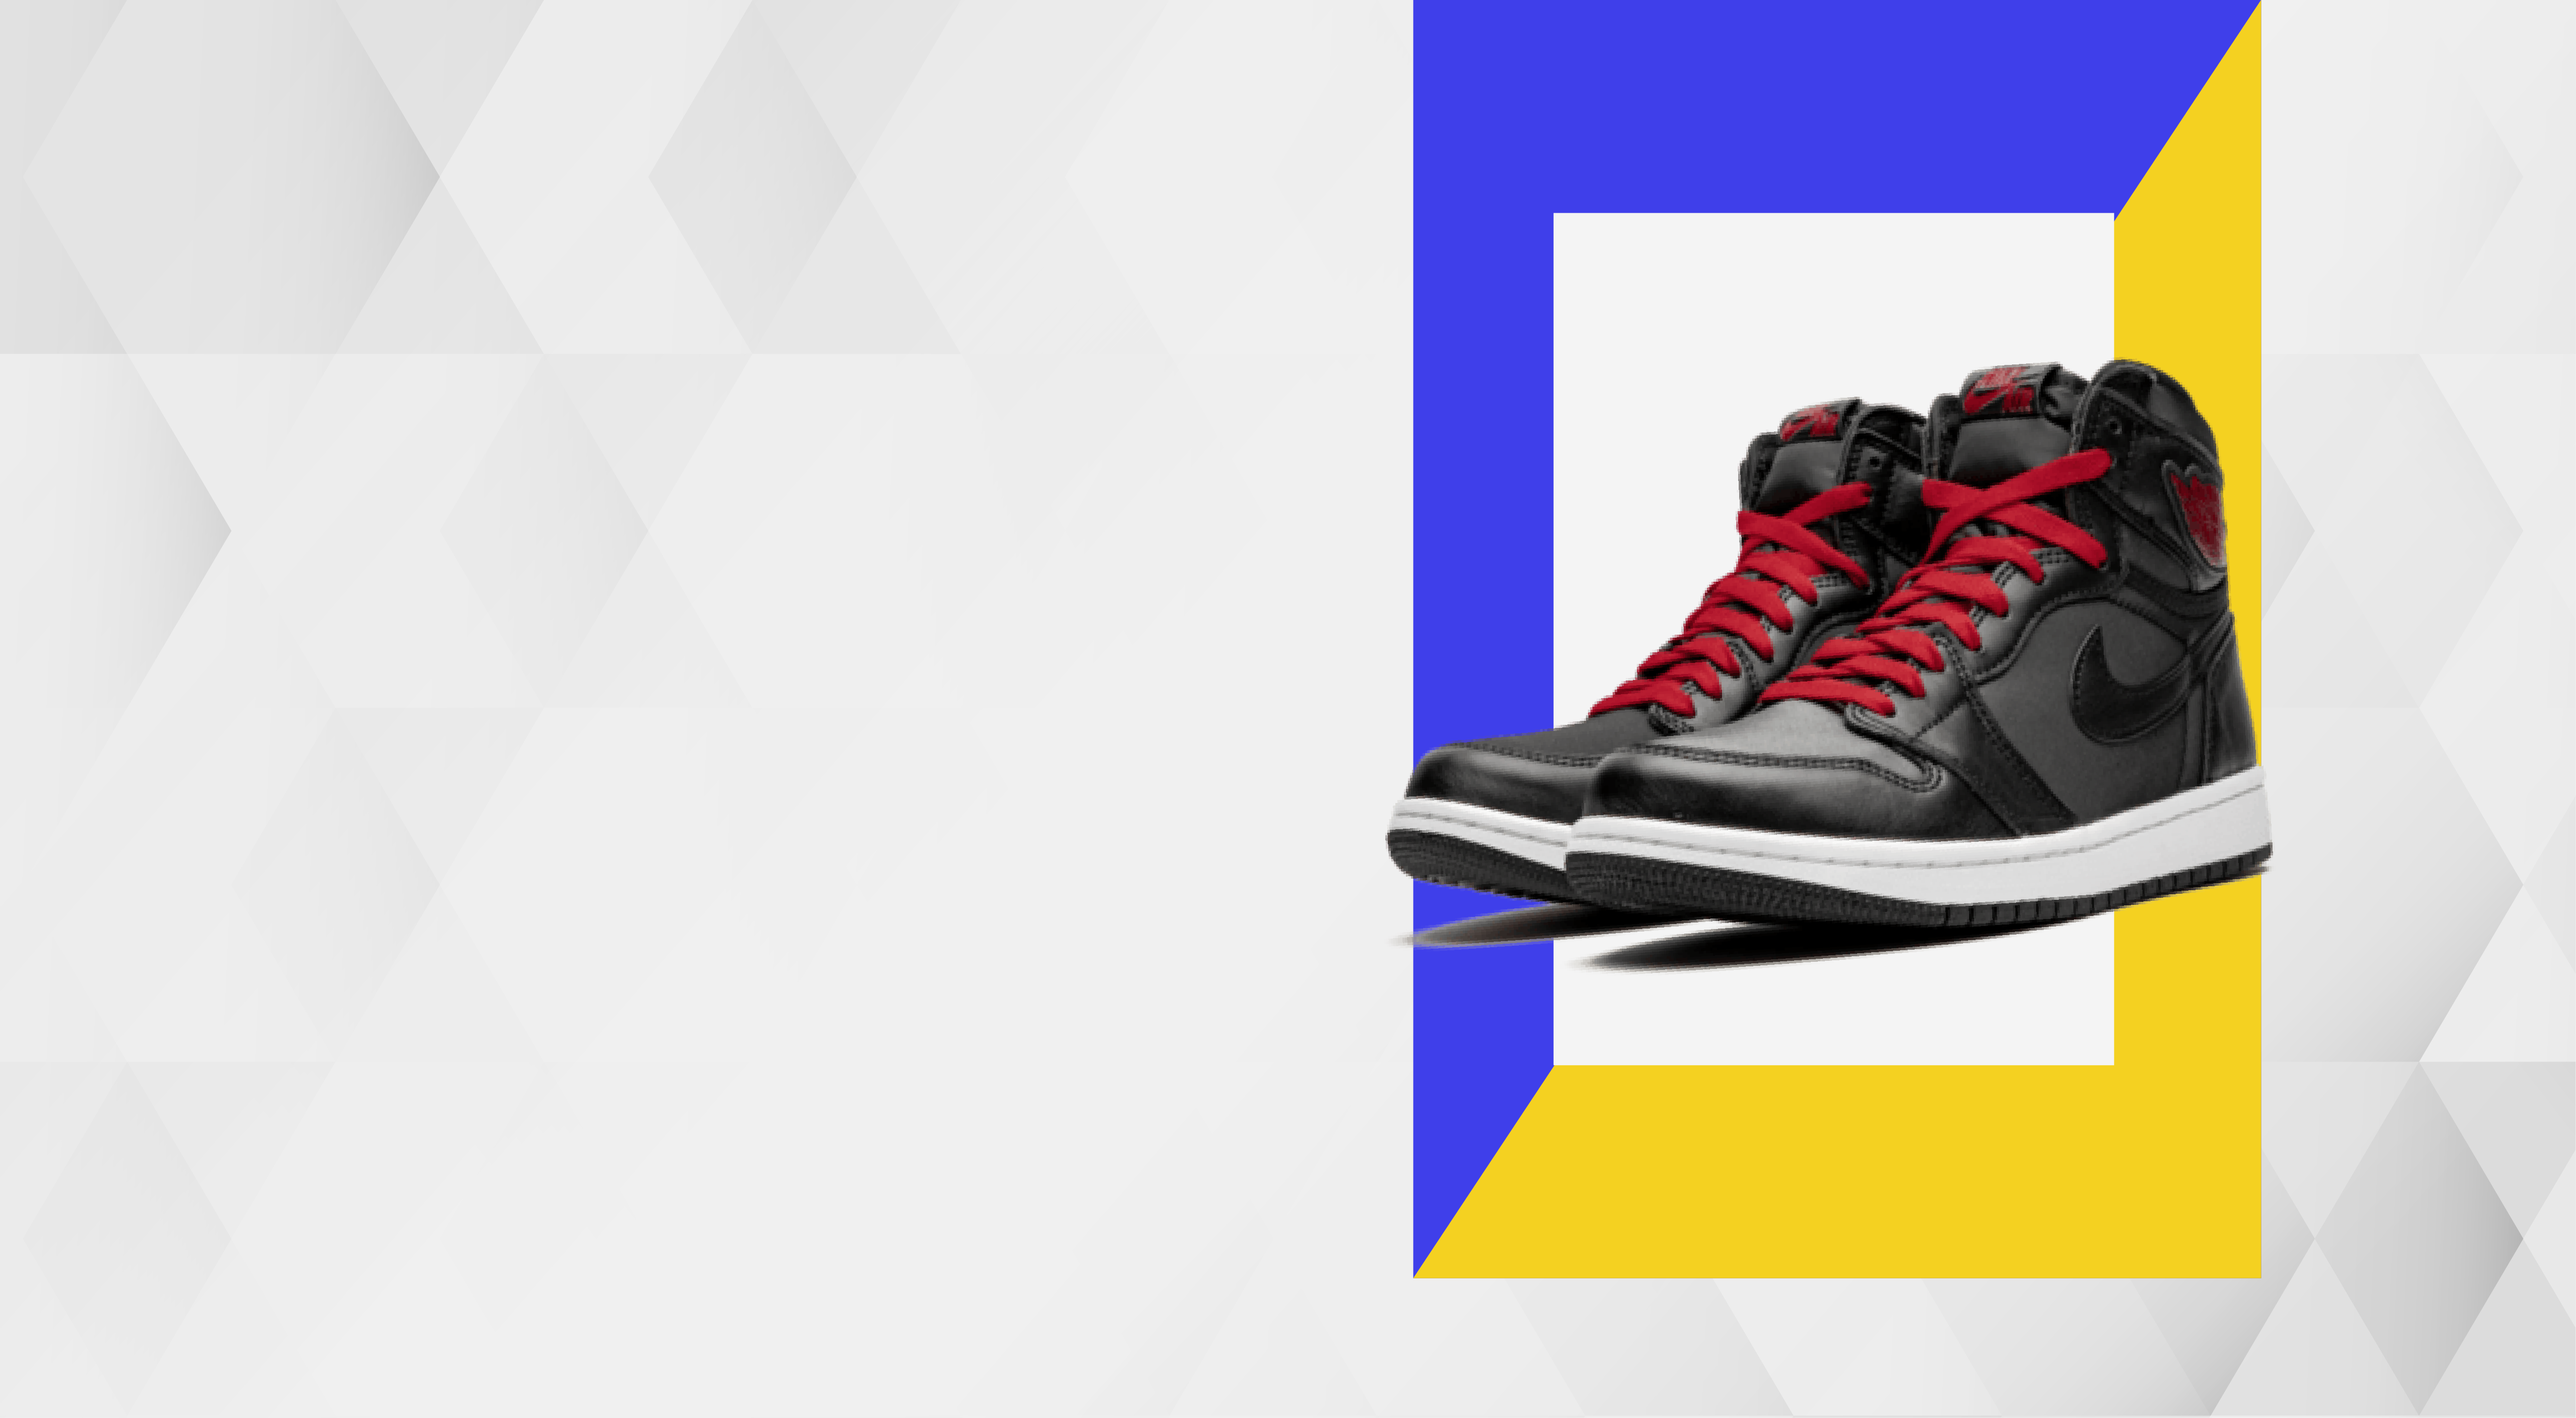
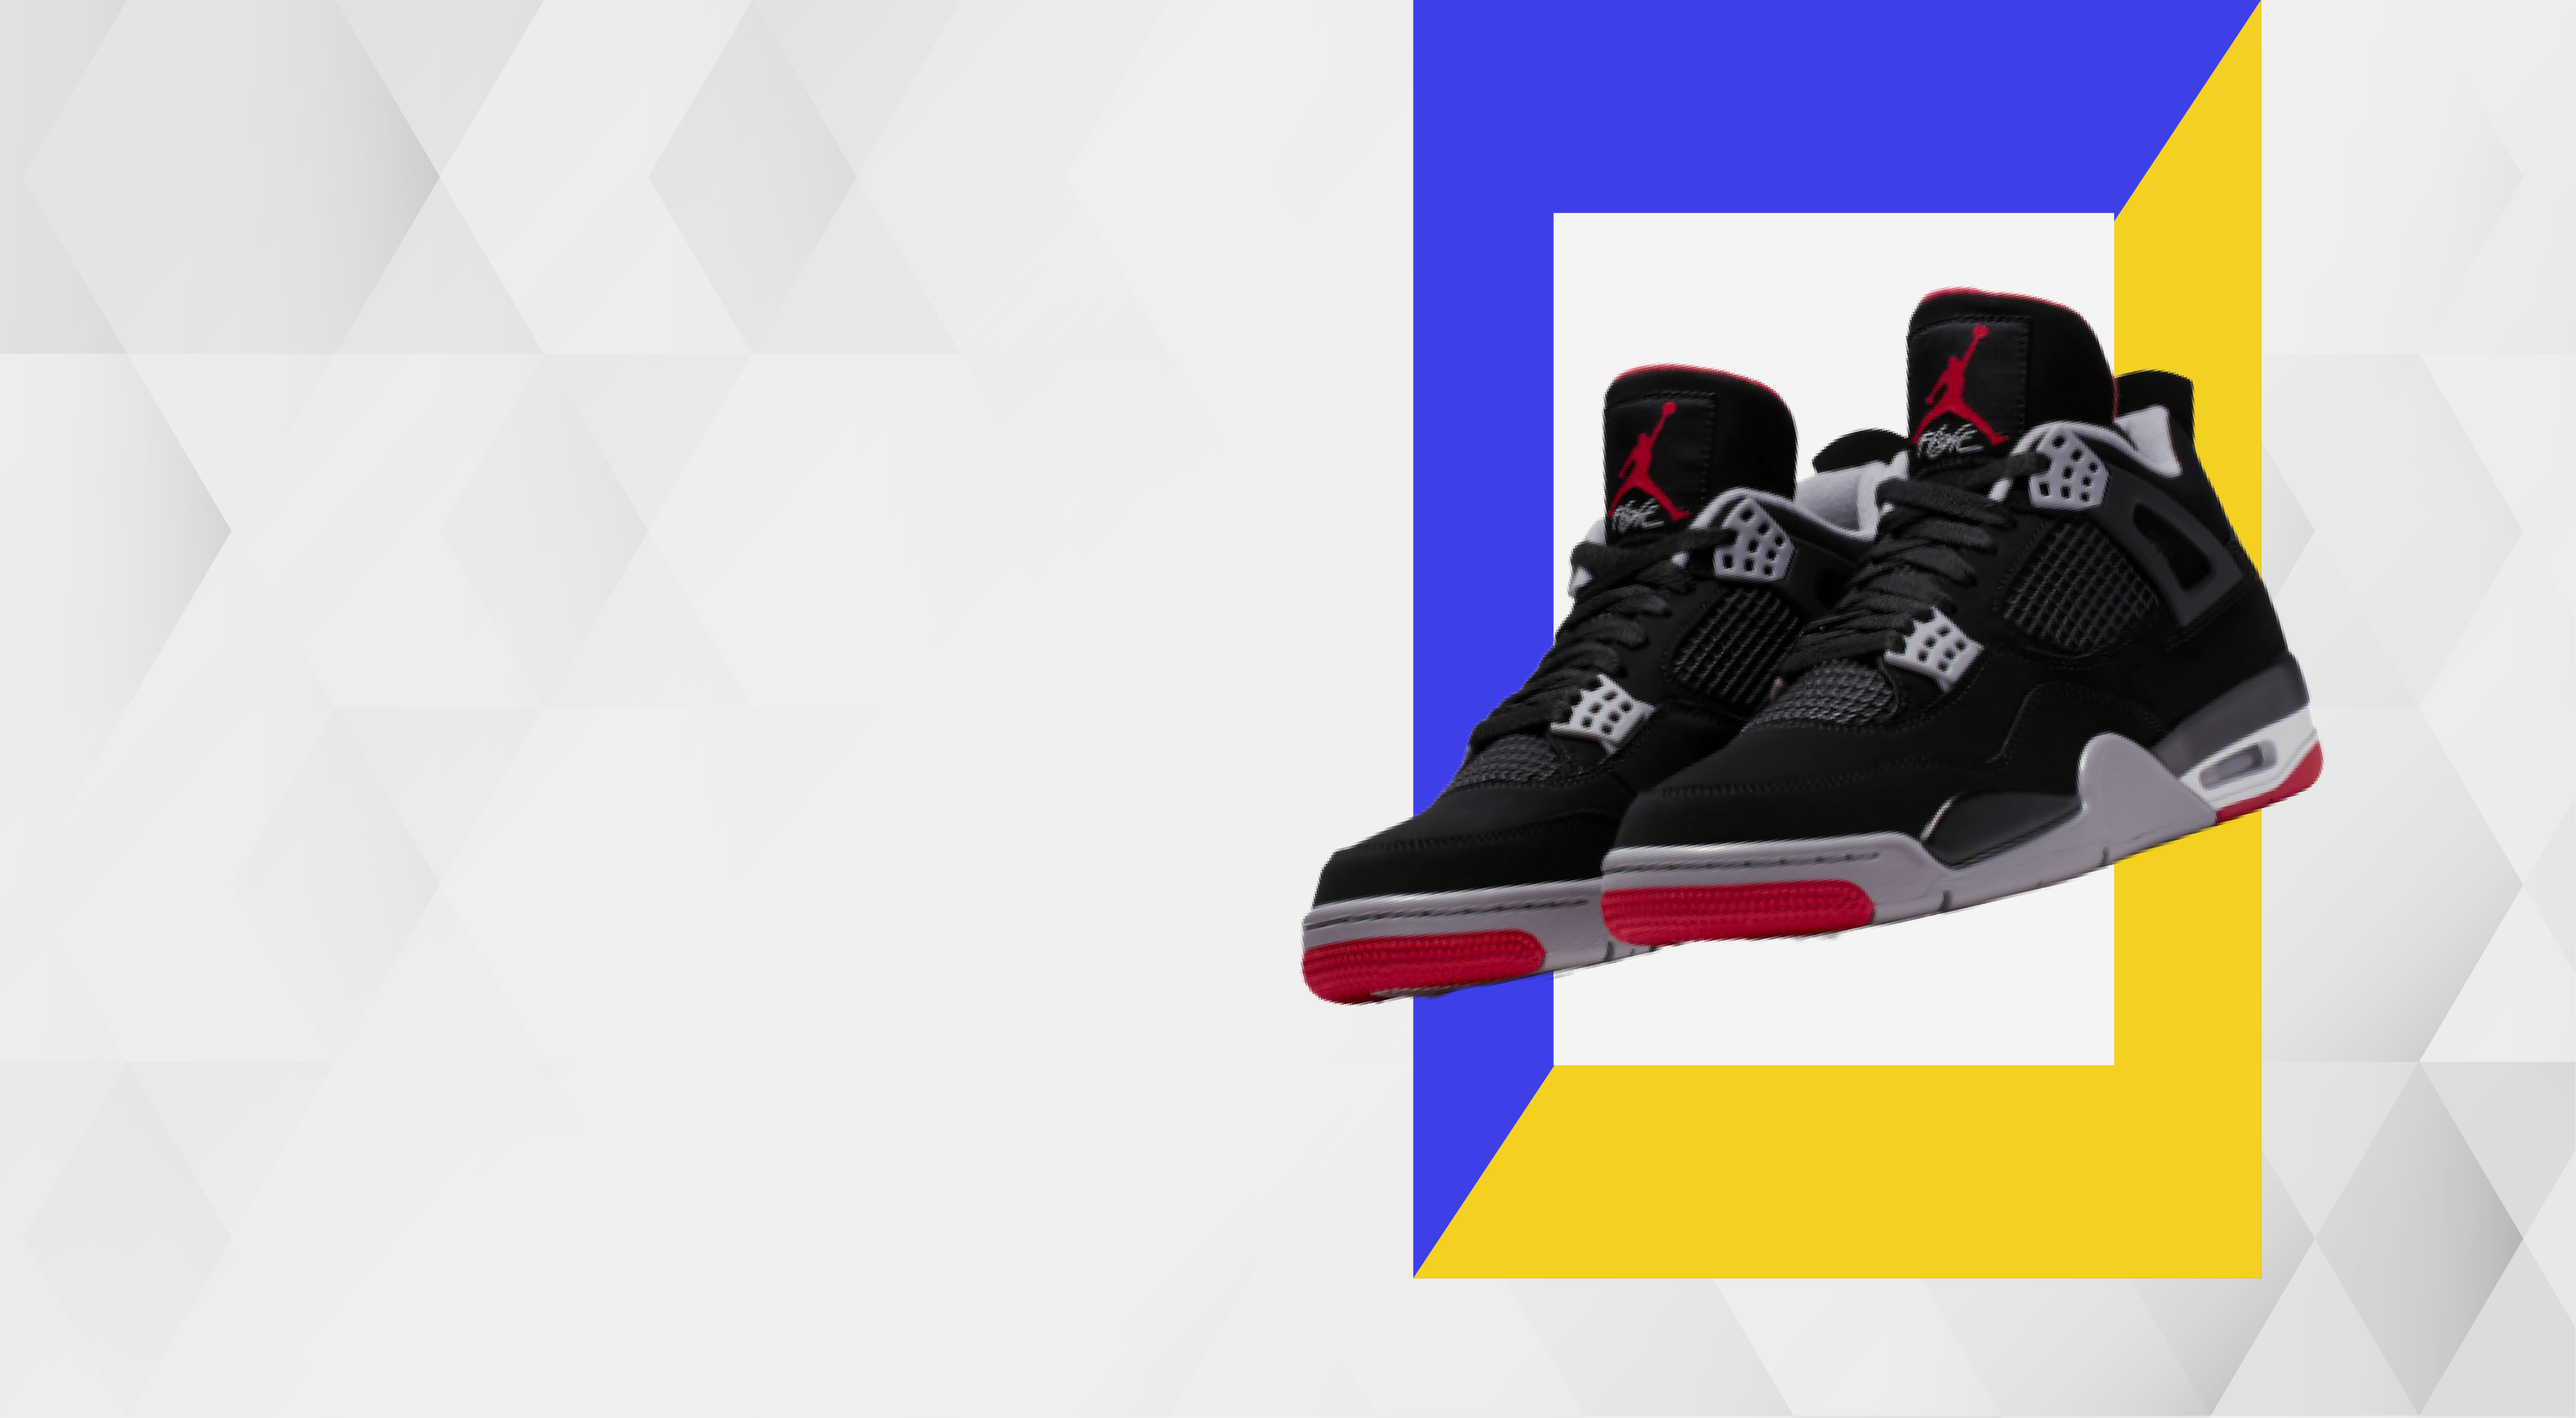
Criada estrutura e estilos da session about

Changed region(s): [[0.4978, 0.1856, 0.9023, 0.7113]]

diff --git a/style.css b/style.css
@@ -1,16 +1,13 @@
 @import url('https://fonts.googleapis.com/css2?family=Bebas+Neue&family=Belleza&display=swap');
-
 *{
     margin: 0;
     padding: 0;
     box-sizing: border-box;
 }
-
 body {
     width: 100%;
     height: 100vh;
 }
-
 header {
     max-width: 1680px;
     width: 100%;
@@ -19,41 +16,35 @@ header {
     display: flex;
     align-items: center;
     justify-content: space-around;
-    background: rgba(150, 150, 150, 0.7);
+    background: rgb(89, 0, 255);
     position: absolute;
     left: 0;
     right: 0;
     z-index: 99;
 }
-
 header .logo img {
     width: 210px;
     margin: 0 60px;
     padding: 10px;
 }
-
 header .menu ul {
     display: flex;
     padding: 0 150px;
 }
-
 header .menu ul li {
     list-style: none;
     padding: 0 30px;
 }
-
 header .menu ul li a {
     font-family: 'Belleza', sans-serif;
     text-decoration: none;
     font-size: 1.3rem;
-    color: #313131;  
+    color: #f0f8ff;  
 }
-
 header .menu ul li a:hover {
-    color: #000000;
+    color: #ffffff;
     text-decoration: underline;
 }
-
 /*      SECTION       */
 section .container{
     max-width: 1680px;
@@ -66,7 +57,6 @@ section .container{
     background: url(images/bg1.png) no-repeat;
     background-size: cover;
 }
-
 #home .container .content {
     width: 50%;
     height: 80vh;
@@ -75,7 +65,6 @@ section .container{
     justify-content: flex-start;
     padding: 0 60px;
 }
-
 #home .container .content h1 {
     font-family: 'Bebas Neue', cursive;
     font-size: 2.5rem;
@@ -85,7 +74,6 @@ section .container{
     margin-bottom: 40px;
     color: #302725;
 }
-
 #home .container .content p {
     font-family: 'Belleza', sans-serif;
     font-size: 1.3rem;
@@ -93,18 +81,15 @@ section .container{
     margin-bottom: 120px;
     margin-top: 40px;
 }
-
 #home .container .content span {
     font-family: 'Bebas Neue', cursive;
     font-size: 2.5rem;
     color: #0011ff;
     letter-spacing: 5px;
 }
-
 #home .container .content button {
     padding-top: 200px;
 }
-
 #home .container .content .button button {
     padding: 10px 20px;
     border: none;
@@ -115,11 +100,9 @@ section .container{
     cursor: pointer;
     transition: all 0.5s ease;
 } 
-
 #home .container .content .button button:hover {
     transform: scale(1.1);
 }
-
 #home .container .content button.btn2 {
     background-color: #ffe600;
     font-weight: 700;
@@ -130,12 +113,10 @@ section .container{
 }
 
 /*      BRANCH       */
-
 #branch .container {
     background: url(images/bg3.png) no-repeat;
     background-size: 100% 100%;
 }
-
 #branch .container .title {
     display: flex;
     align-items: center;
@@ -143,13 +124,11 @@ section .container{
     flex-direction: column;
     padding-top: 60px;
 }
-
 #branch .container .title .line {
     width: 150px;
     height: 2px;
     background: #0011ff;
 }
-
 #branch .container .title h1 {
     font-family: 'Bebas Neue', cursive;
     font-size: 2rem;
@@ -157,14 +136,12 @@ section .container{
     letter-spacing: 15px;
     margin-top: 20px;
 }
-
 #branch .container .content {
     width: 100%;
     height: 90vh;
     display: flex;
     justify-content: space-evenly;
 }
-
 #branch .container .content .box {
     width: 25%;
     height: 60vh;
@@ -177,7 +154,6 @@ section .container{
     flex-direction: column;
     margin-top: 40px;
 }
-
 #branch .container .content .box h3 {
     margin-top: 20px;
     margin-bottom: 60px;
@@ -187,14 +163,12 @@ section .container{
     background: #ffe600;
     padding: 5px 10px;
     color: #313131;
-    border: 1px black solid;
+    border: 1px #0011ff solid;
     border-radius: 5px;
 }
-
 #branch .container .content .box img {
     width: 220px;
 }
-
 #branch .container .content .box h1 {
     font-size: 1.7rem;
     font-family: 'Belleza', sans-serif;
@@ -203,7 +177,6 @@ section .container{
     letter-spacing: 5px;
     margin-top: 20px;
 }
-
 #branch .container .content .box p {
     font-family: 'Bebas Neue', cursive;
     font-size: 1.8rem;
@@ -211,7 +184,6 @@ section .container{
     color: #0011ff;
     margin-top: 60px;
 }
-
 #branch .container .content .box button {
     padding: 10px 20px;
     border: none;
@@ -226,9 +198,75 @@ section .container{
     visibility: hidden;
     transition: all 0.5s ease;
 } 
-
 #branch .container .content .box:hover button {
     transform: translate(0);
     opacity: 1;
     visibility: visible;
+}
+
+/*      ABOUT       */
+#about .container {
+    background: url(images/bg2.png) no-repeat;
+    background-size: 100% 100%;
+}
+#about .container .title {
+    width: 70%;
+    display: flex;
+    align-items: flex-end;
+    justify-content: center;
+    flex-direction: column;
+    padding-top: 100px;
+}
+#about .container .title .line {
+    width: 150px;
+    height: 2px;
+    background: #0011ff;
+}
+#about .container .title h1 {
+    margin-top: 20px;
+    font-family: 'Bebas Neue', cursive;
+    font-size: 2rem;
+    font-weight: 200;
+    letter-spacing: 15px;
+}
+#about .container .title .call {
+    width: 50%;
+    display: flex;
+    flex-direction: column;
+    align-items: flex-start;
+    justify-content: center;
+    position: relative;
+    top: 100px;
+    left: 200px;
+}
+#about .container .title .call h2 {
+    font-family: 'Bebas Neue', cursive;
+    font-weight: 200;
+    font-size: 2.5rem;
+    margin-bottom: 80px;
+    letter-spacing: 8px;
+}
+#about .container .title .call p {
+    font-size: 1.3rem;
+    font-family: 'Belleza', sans-serif;
+    letter-spacing: 1px;
+}
+#about .container .title .call button {
+    margin-top: 50px;
+    padding: 10px 20px;
+    border: none;
+    background: #0011ff;
+    color: #f0f8ff;
+    font-family: 'Belleza', sans-serif;
+    font-size: 1.2rem;
+    cursor: pointer;
+    transition: all 0.2s ease;
+}
+
+#about .container .title .call button:hover {
+    transform: scale(1);
+    border: 2px solid #0011ff;
+    background: none;
+    color: #0011ff;
+    font-weight: 600;
 }

diff --git a/index.html b/index.html
@@ -31,8 +31,8 @@
                 <div class="content">
                     <div class="call">
                         <h1>Nova coleção de tênis</h1>
-                        <p>Novo Air Jordan bla bla bla.</p>
-                        <span>R$ XXX,XX</span>
+                        <p>O tão aguardado Air Jordan 4 “Infrared” chegou!<br/> Venha conhecer os novos modelos.</p>
+                        <span>R$ 2.490,90</span>
                         <div class="button">
                             <button>Descubra Mais</button>
                             <button class="btn2">Adicionar ao carrinho</button>
@@ -70,6 +70,20 @@
                         <h1>Tênis Adidas Run<br/> 60s 2.0 </h1>
                         <p>R$ 299,90</p>
                         <button>Adicionar ao Carrinho</button>
+                    </div>
+                </div>
+            </div>
+        </section>
+        <!--ABOUT-->
+        <section id="about">
+            <div class="container">
+                <div class="title">
+                    <div class="line"></div>
+                    <h1>PRODUTOS</h1>
+                    <div class="call">
+                        <h2>Os mais calçados pela galera</h2>
+                        <p>Os modelos mais recentes deste ano, estão disponíveis em várias apresentações nesta loja, descubra-os já.</p>
+                        <button>Descubra Agora</button>
                     </div>
                 </div>
             </div>
